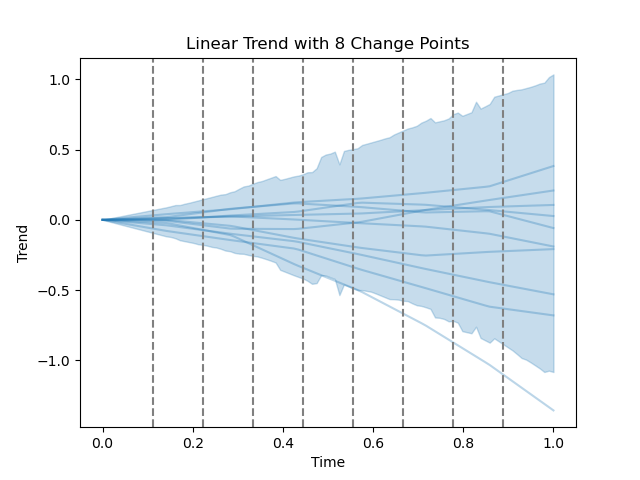
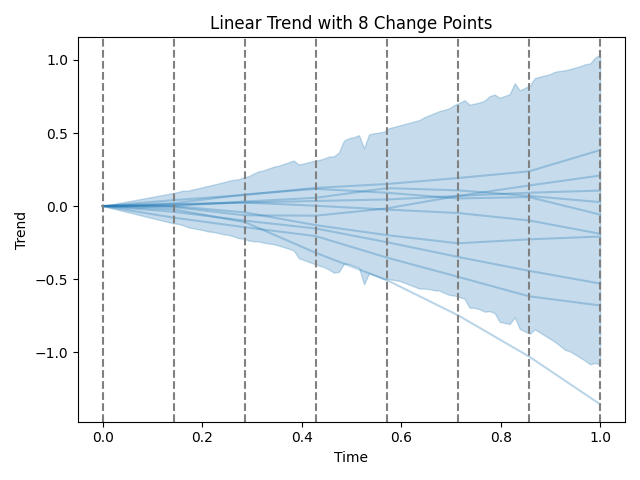
Fix dim issue for default priors of linear trend

diff --git a/pymc_marketing/mmm/linear_trend.py b/pymc_marketing/mmm/linear_trend.py
@@ -82,6 +82,7 @@ class LinearTrend(BaseModel):
 
     where:
 
+    - :math:`0 \le t \le T`,
     - :math:`k` is the base intercept,
     - :math:`\delta_m` is the change in the trend at change point :math:`m`,
     - :math:`I` is the indicator function,
@@ -91,7 +92,7 @@ class LinearTrend(BaseModel):
 
     .. math::
 
-            s_m = \frac{m}{M-1} \max(t), 0 \le m \le M-1
+            s_m = \frac{m}{M-1} T, 0 \le m \le M-1
 
     where :math:`M` is the number of change points (:math:`M>1`).
 
@@ -276,7 +277,7 @@ class LinearTrend(BaseModel):
                 "Laplace",
                 mu=0,
                 b=0.25,
-                dims="changepoint",
+                dims=tuple(d for d in {"changepoint"}.union(cast(Dims, self.dims))),
             ),
         }
         if self.include_intercept:
@@ -290,7 +291,7 @@ class LinearTrend(BaseModel):
         Parameters
         ----------
         t : pt.TensorLike
-            Input values for the trend.
+            # 1D array of strictly increasing time values for the trend starting from 0.
 
         Returns
         -------
